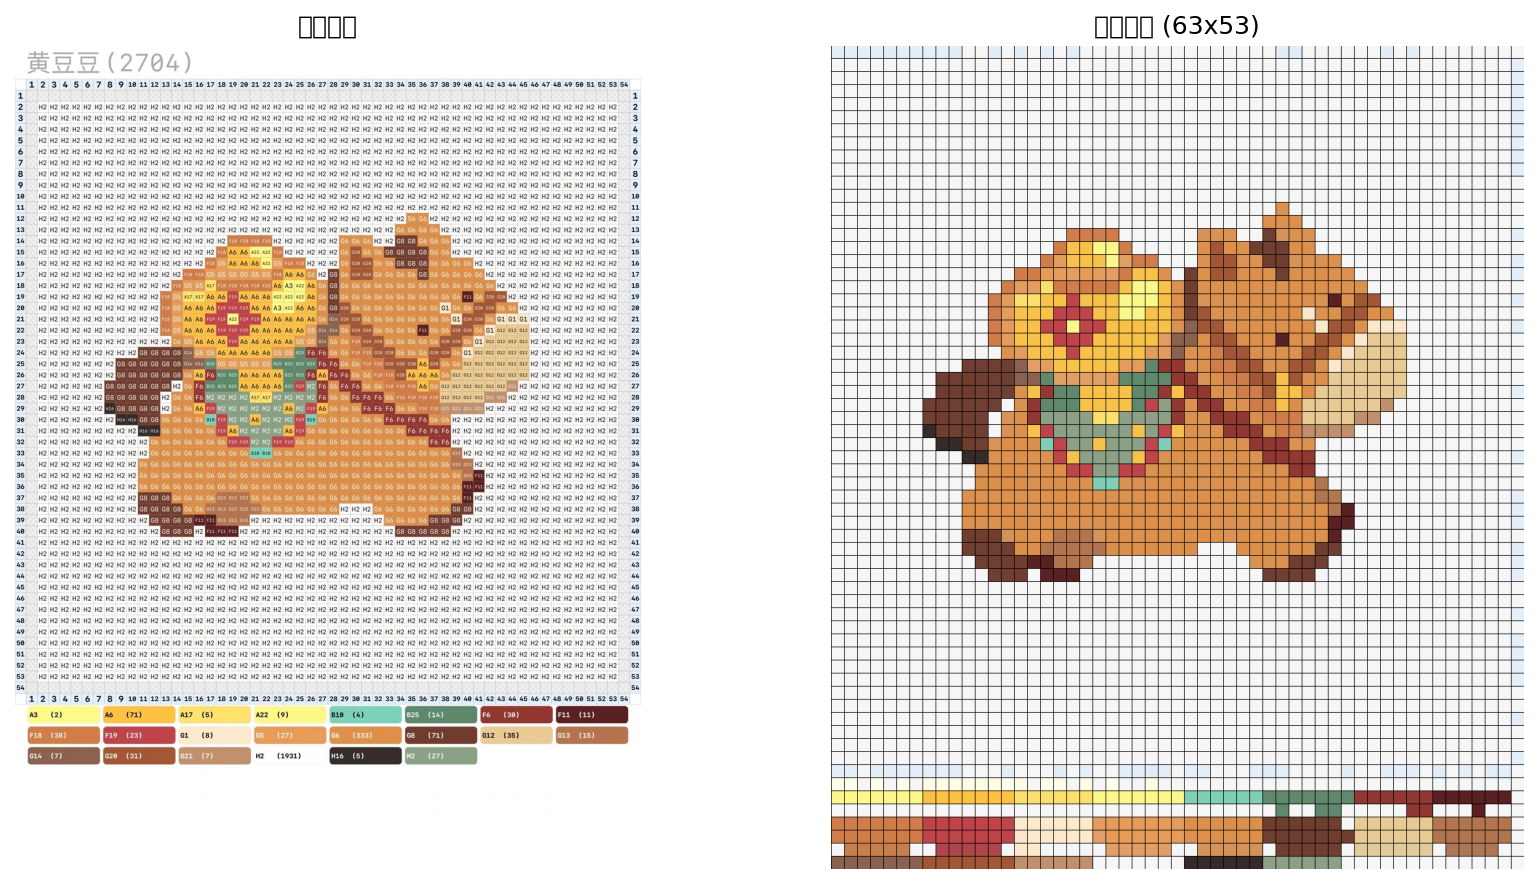
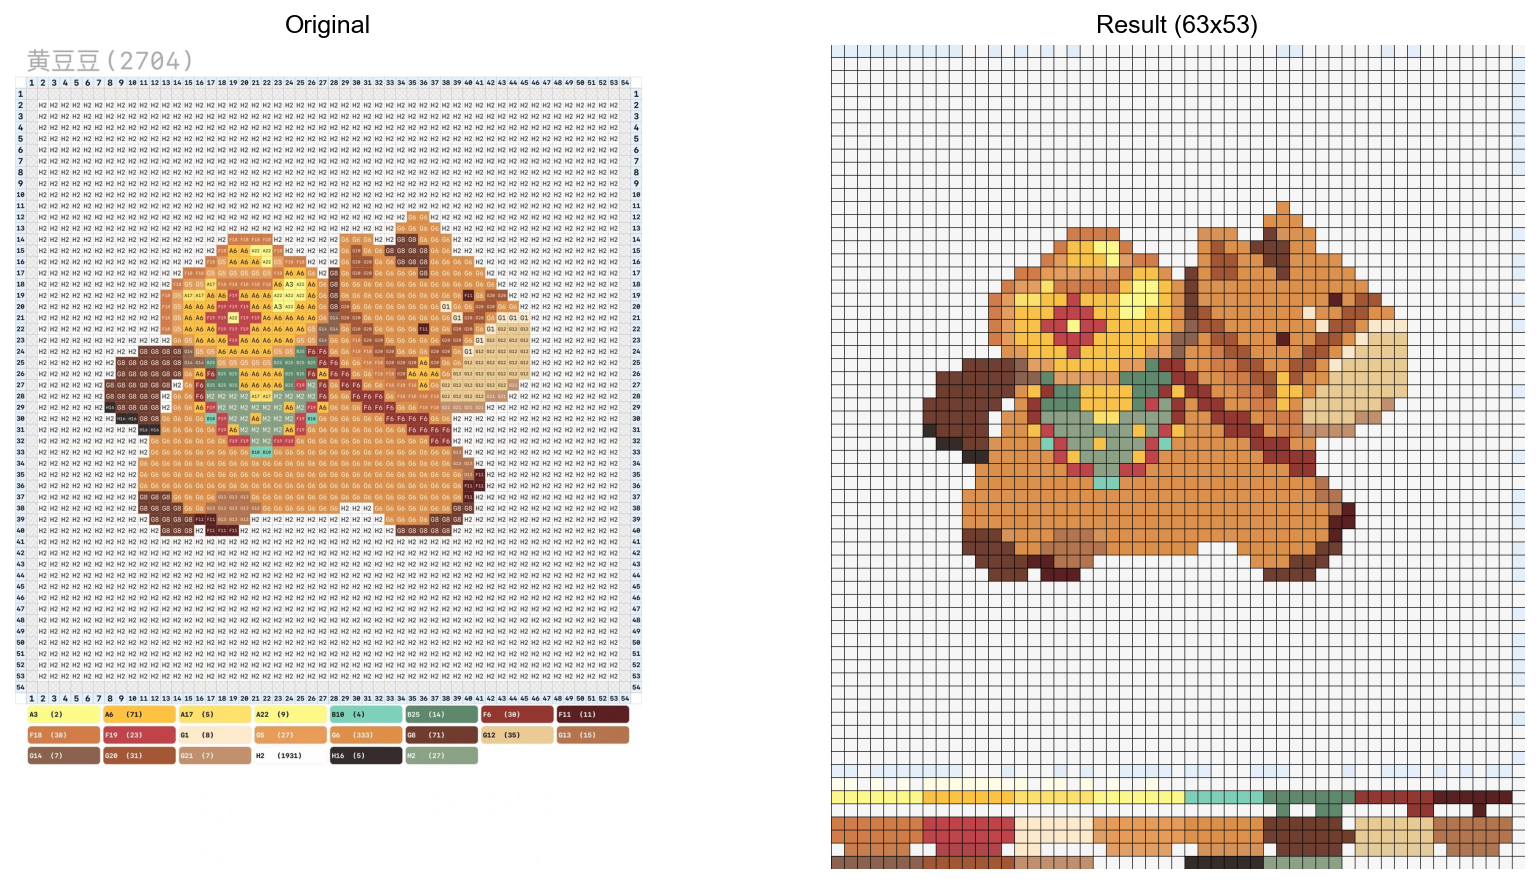
fix: use English labels for visualization

diff --git a/src/perler_bead_detector.py b/src/perler_bead_detector.py
@@ -575,12 +575,15 @@ class PerlerBeadDetector:
         # 显示对比
         fig, axes = plt.subplots(1, 2, figsize=(12, 6))
         
+        # 设置中文字体
+        plt.rcParams['font.sans-serif'] = ['Arial Unicode MS', 'SimHei', 'DejaVu Sans']
+        
         axes[0].imshow(image_rgb)
-        axes[0].set_title('原始图片')
+        axes[0].set_title('Original')
         axes[0].axis('off')
         
         axes[1].imshow(result_image)
-        axes[1].set_title(f'识别结果 ({rows}x{cols})')
+        axes[1].set_title(f'Result ({rows}x{cols})')
         axes[1].axis('off')
         
         plt.tight_layout()
